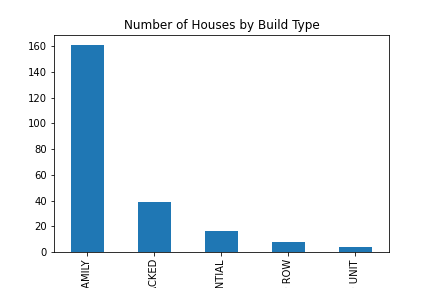
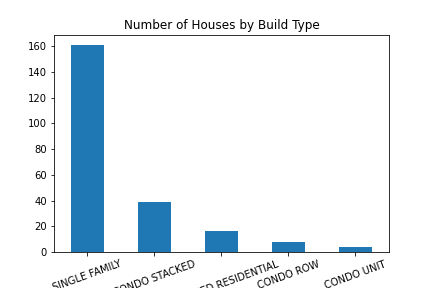
readme

diff --git a/README.md b/README.md
@@ -5,3 +5,31 @@
 ### Coded by Autumn Demonet
 
 To view the code used to analyze the impact of home type and home age on the value of a property, look at: house_attributes.ipynb
+
+PNG Files:
+
+fl homes by age lr.png is the scatter plot that compares Age of Home to its Value with the linear regression annotated
+
+florida house type pie chart.png is the pie chart of House Types that are owned by Florida residents
+
+home type boxplot drop.png is the boxplot of Home Values grouped by Home Type with outliers dropped
+
+home type boxplot.png is the original box plot of Home Values grouped by Home Type used to establish outliers
+
+house by build year.png shows the most popular build years for homes in the data set
+
+house type pie chart.png is the pie chart of House Types that are owned by NC, SC, and VA residents
+
+houses by build type.png is a bar chart representing the five different build types
+
+nc homes by type.png is a pie chart of home types owned by NC residents
+
+sc homes by type.png is a pie chart of home types owned by SC residents
+
+va homes by type.png is a pie chart of home types owned by VA residents
+
+value cs second homes by age.png is a scatter plot of Stacked Condo homes that compares Age of Home to its Value with the linear regression annotated
+
+value second home by age.png is a scatter plot of second homes that compares Age of Home to its Value with the linear regression annotated
+
+value sf second home by age.png is a scatter plot of Single Family second homes that compares Age of Home to its Value with the linear regression annotated
